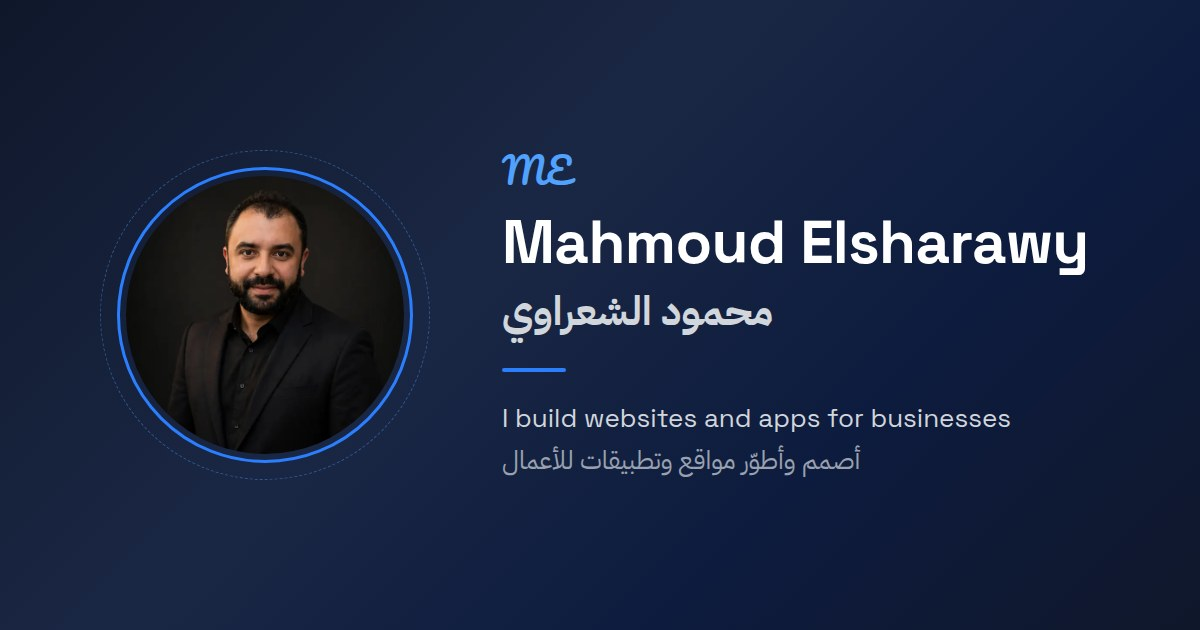
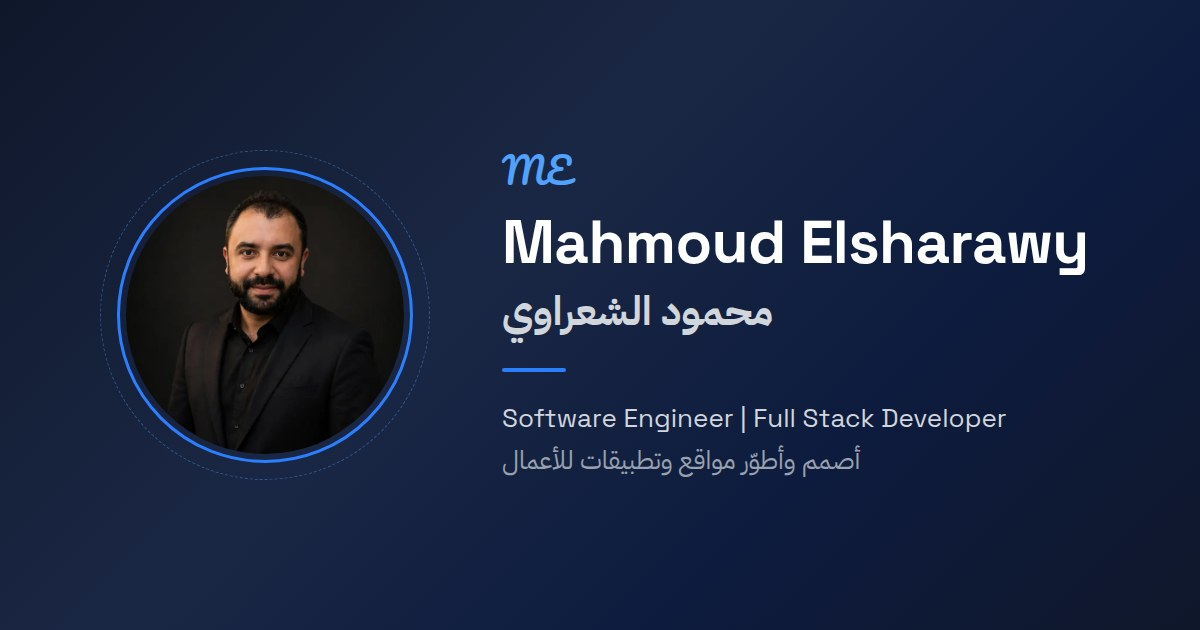
content: use 'Software Engineer | Full Stack Developer' as English title
Replaces 'I build websites and apps for businesses' on the /card page,
its meta tags, the OG image, the vCard title and the email signature.
The card's English meta line drops the now-duplicated role, and the
vCard NOTE (which repeated the title) is removed. Arabic copy is
unchanged.

Changed region(s): [[0.4008, 0.6333, 0.8633, 0.6937]]

diff --git a/card/index.html b/card/index.html
@@ -4,7 +4,7 @@
     <meta charset="UTF-8" />
     <meta name="viewport" content="width=device-width, initial-scale=1.0" />
     <title>Mahmoud Elsharawy · محمود الشعراوي</title>
-    <meta name="description" content="I build websites and apps for businesses · أصمم وأطوّر مواقع وتطبيقات للأعمال" />
+    <meta name="description" content="Software Engineer | Full Stack Developer · أصمم وأطوّر مواقع وتطبيقات للأعمال" />
     <link rel="canonical" href="%SITE_URL%/card" />
     <meta name="theme-color" content="#0f172a" />
     <link rel="icon" type="image/png" href="/favicon.png" />
@@ -12,11 +12,11 @@
     <meta property="og:type" content="profile" />
     <meta property="og:url" content="%SITE_URL%/card" />
     <meta property="og:title" content="Mahmoud Elsharawy · محمود الشعراوي" />
-    <meta property="og:description" content="I build websites and apps for businesses · أصمم وأطوّر مواقع وتطبيقات للأعمال" />
+    <meta property="og:description" content="Software Engineer | Full Stack Developer · أصمم وأطوّر مواقع وتطبيقات للأعمال" />
     <meta property="og:image" content="%SITE_URL%/og-card.jpg" />
     <meta property="og:image:width" content="1200" />
     <meta property="og:image:height" content="630" />
-    <meta property="og:image:alt" content="Mahmoud Elsharawy, I build websites and apps for businesses" />
+    <meta property="og:image:alt" content="Mahmoud Elsharawy, Software Engineer | Full Stack Developer" />
     <meta name="twitter:card" content="summary_large_image" />
 
     <link rel="preconnect" href="https://fonts.googleapis.com" />

diff --git a/src/data/profile.js b/src/data/profile.js
@@ -2,9 +2,9 @@ export const profile = {
   name: { en: 'Mahmoud Elsharawy', ar: 'محمود الشعراوي' },
   firstName: 'Mahmoud',
   lastName: 'Elsharawy',
-  title: 'Full Stack Developer',
+  title: 'Software Engineer | Full Stack Developer',
   tagline: {
-    en: 'I build websites and apps for businesses',
+    en: 'Software Engineer | Full Stack Developer',
     ar: 'أصمم وأطوّر مواقع وتطبيقات للأعمال',
   },
   location: { city: 'Alexandria', country: 'Egypt' },

diff --git a/scripts/card/vcard.js b/scripts/card/vcard.js
@@ -38,7 +38,6 @@ export function buildVCard() {
     `EMAIL;TYPE=INTERNET,PREF:${profile.email}`,
     `ADR;TYPE=WORK:;;;${escapeText(profile.location.city)};;;${escapeText(profile.location.country)}`,
     `URL:${SITE_URL}`,
-    `NOTE:${escapeText(profile.tagline.en)}`,
     `PHOTO;ENCODING=b;TYPE=JPEG:${photo}`,
     'END:VCARD',
   ]

diff --git a/src/card/content.js b/src/card/content.js
@@ -6,7 +6,7 @@ export const strings = {
   en: {
     name: profile.name.en,
     tagline: profile.tagline.en,
-    meta: 'Full Stack Developer · Alexandria, Egypt',
+    meta: 'Alexandria, Egypt',
     jobSuccess: '100% Job Success',
     rating: '5.0 client rating',
     save: 'Save Contact',
